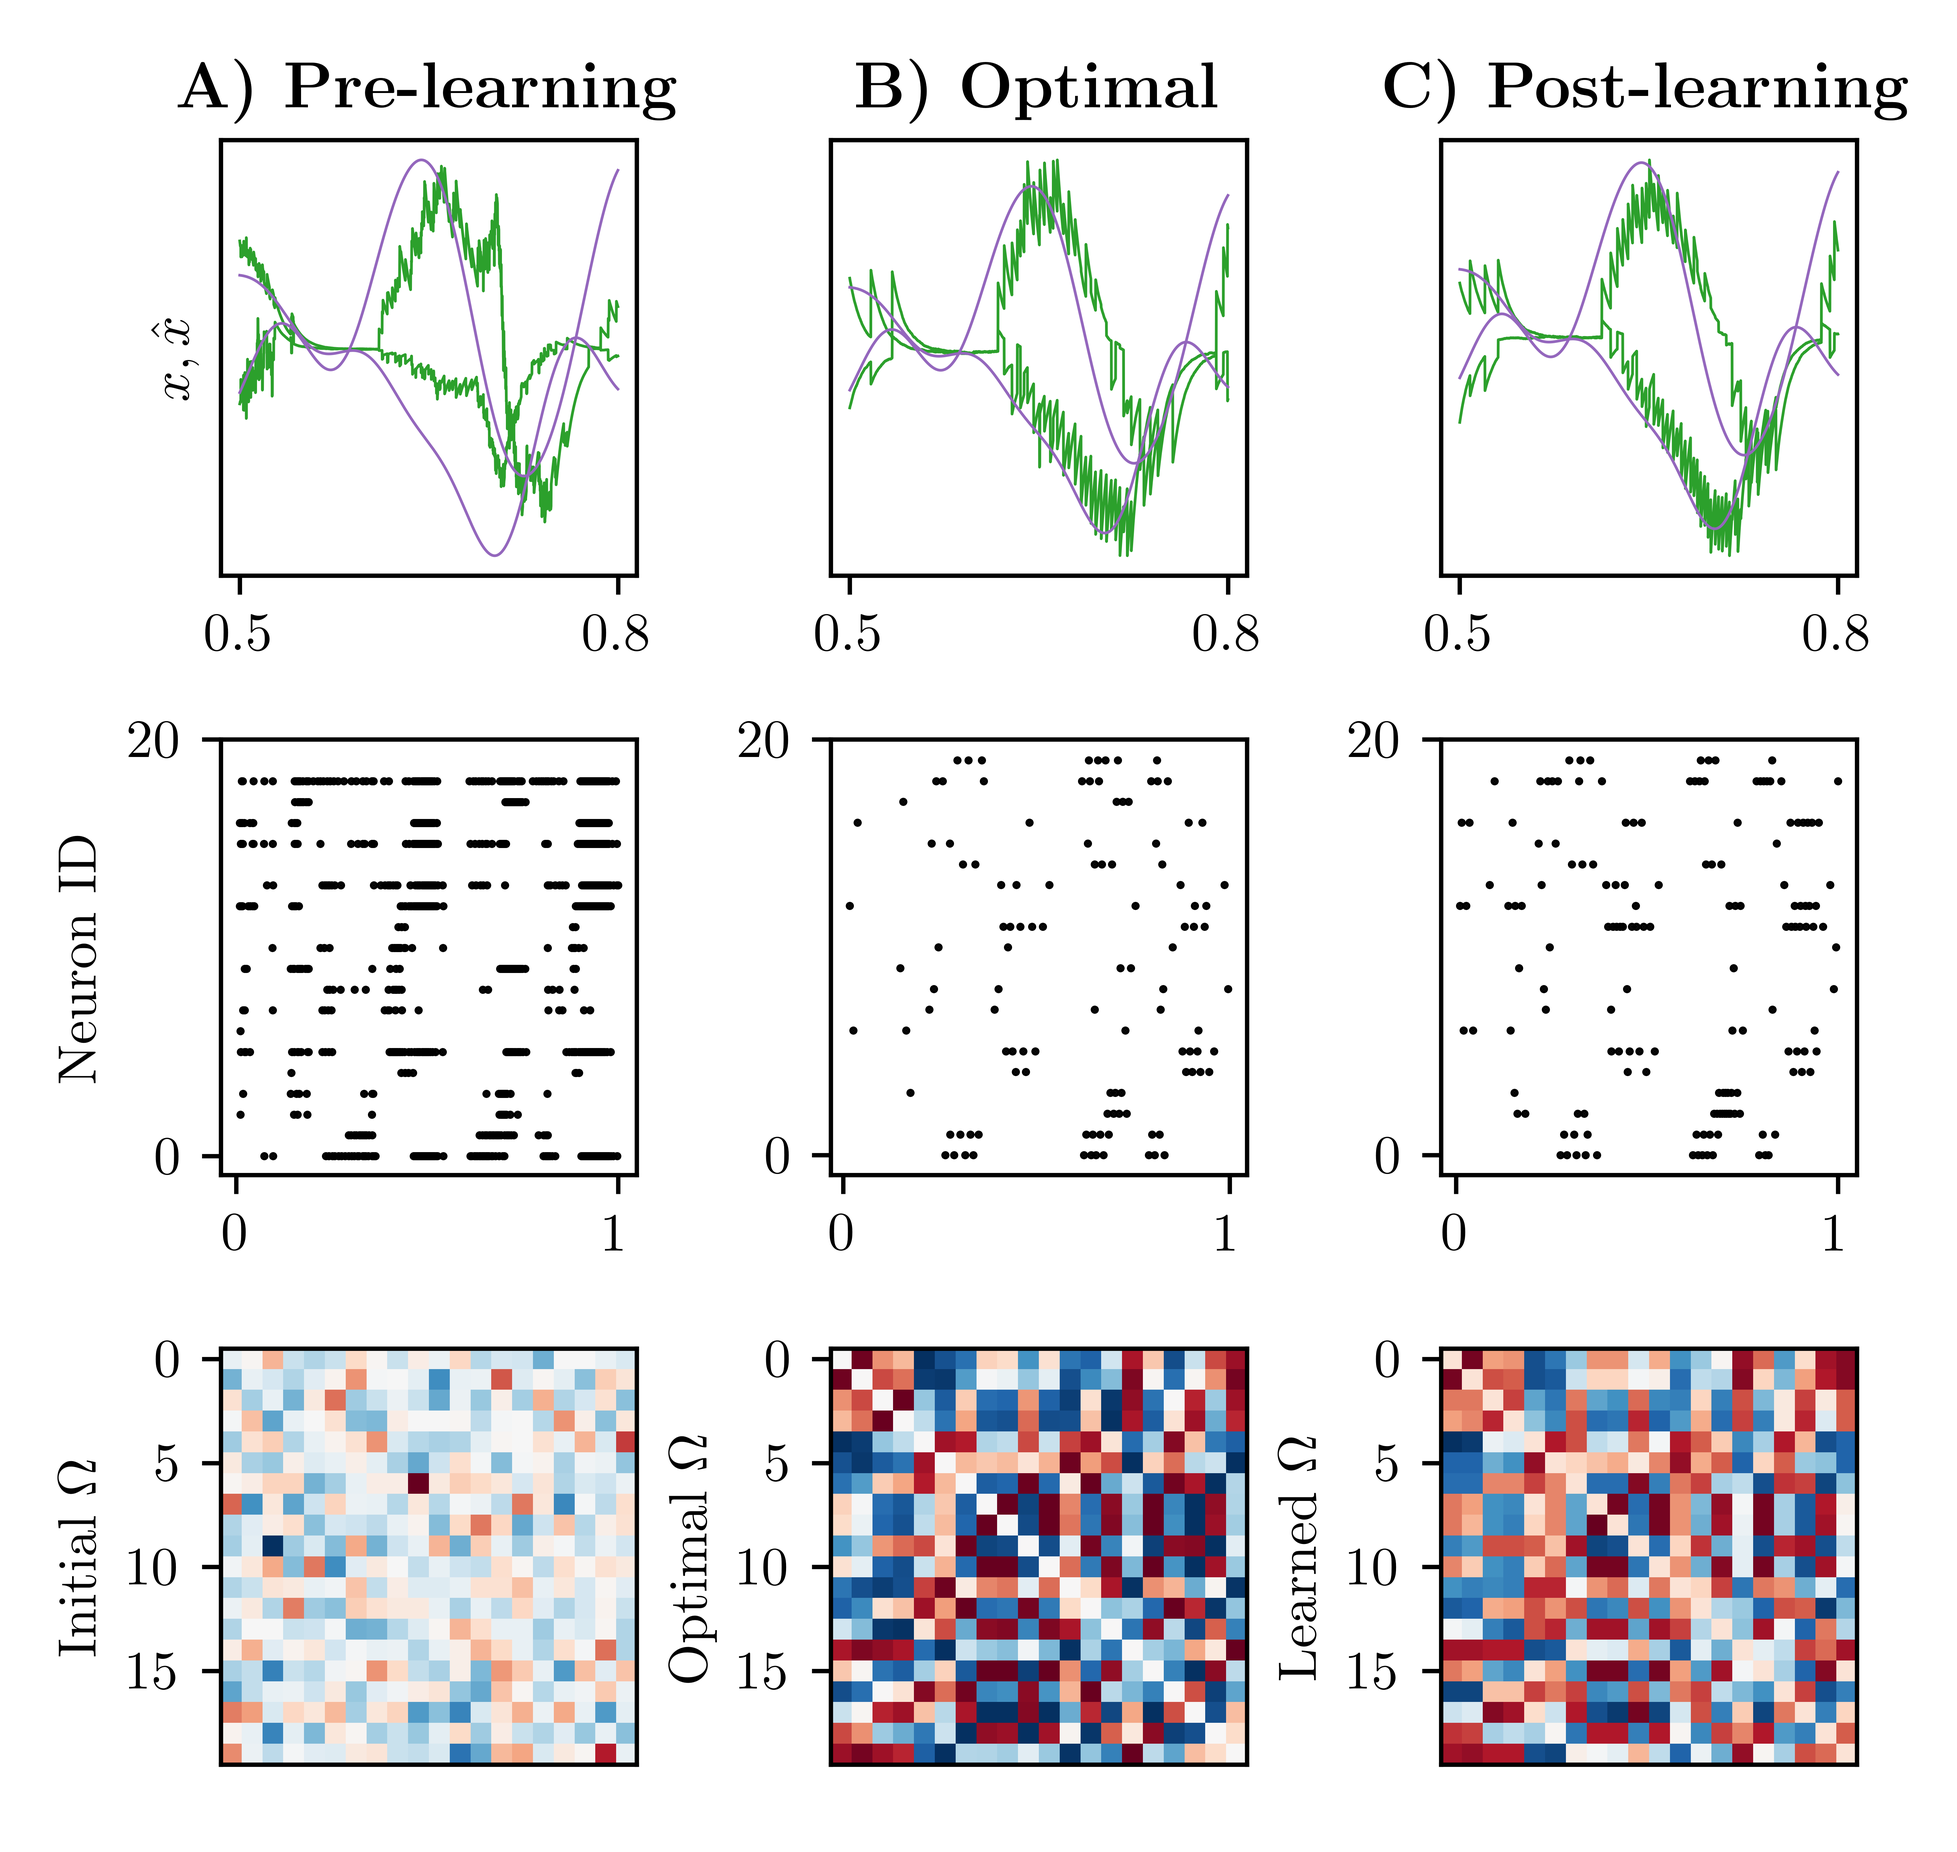
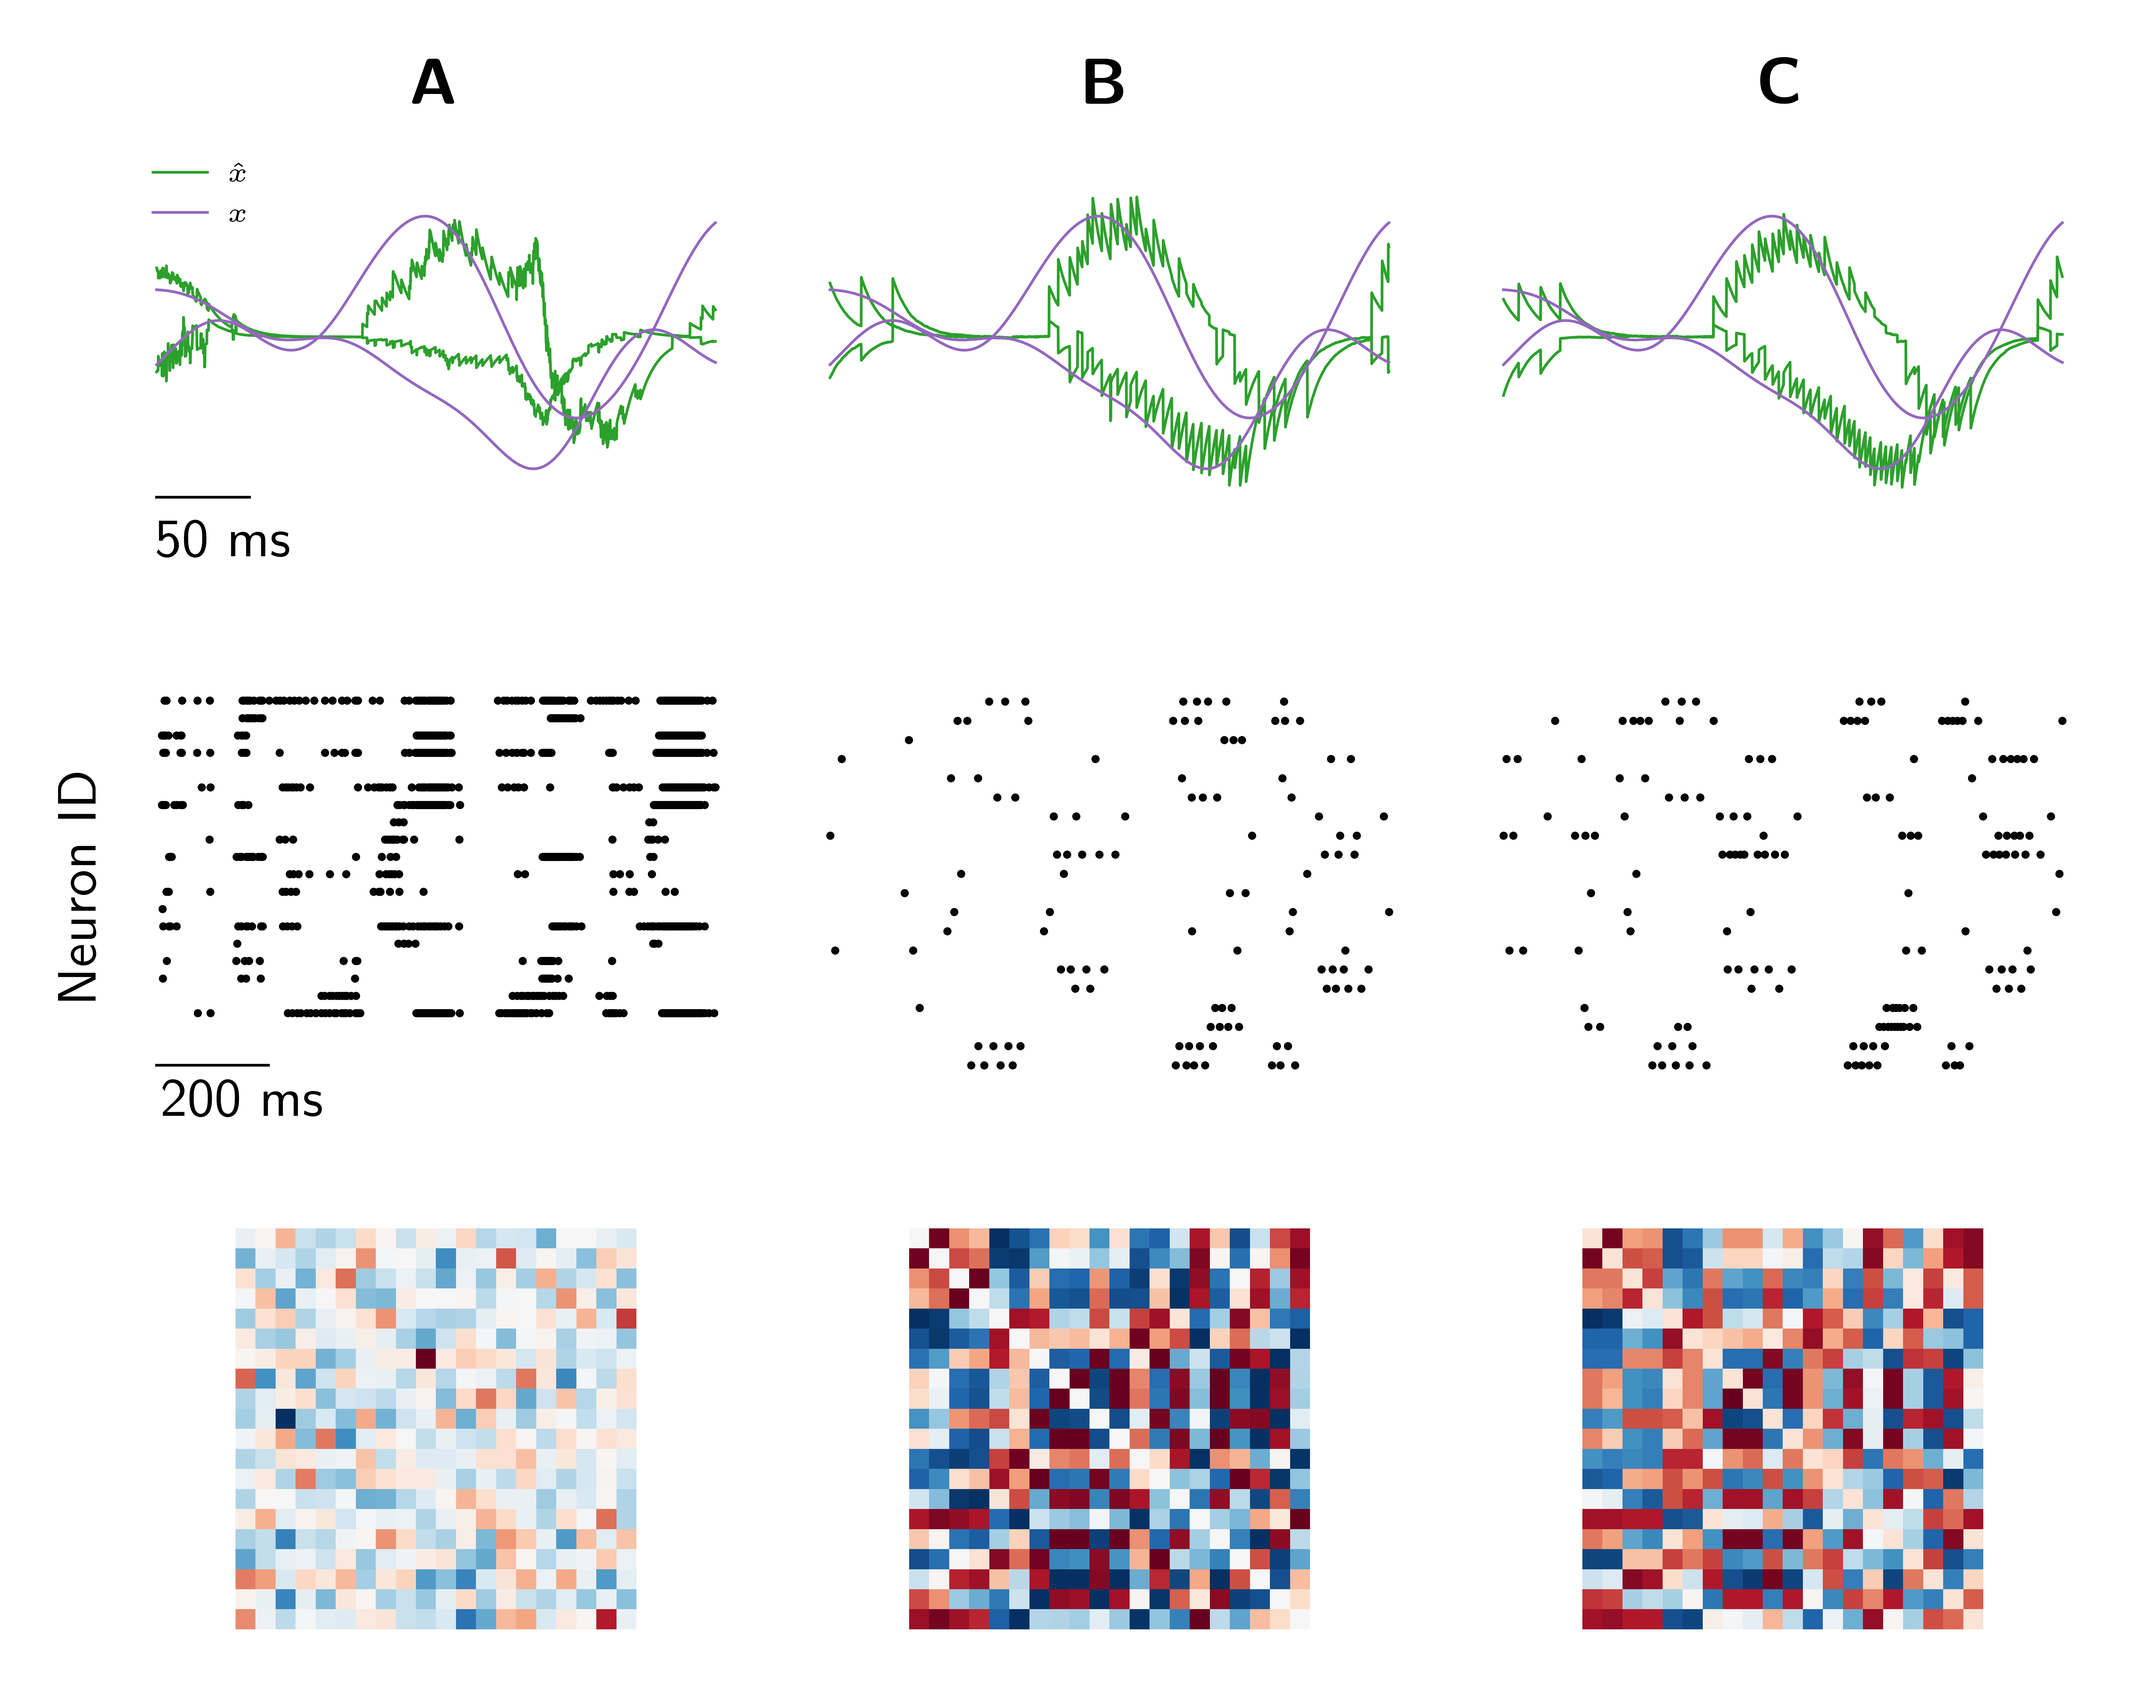
Improve plots

diff --git a/plotting.py b/plotting.py
@@ -1,7 +1,7 @@
 import numpy as np
 
 import matplotlib
-matplotlib.rc('font', family='Times New Roman')
+matplotlib.rc('font', family='Sans-Serif')
 matplotlib.rc('text', usetex=True)
 matplotlib.rcParams['lines.linewidth'] = 0.5
 matplotlib.rcParams['lines.markersize'] = 0.5
@@ -30,7 +30,7 @@ W_initial = np.asarray(load_dict["W_initial"])
 W_optimal = np.asarray(load_dict["W_optimal"])
 W_learned = np.asarray(load_dict["W_learned"])
 
-fig = plt.figure(figsize=(5,4.73))
+fig = plt.figure(figsize=(5.49,4.36))
 
 t_start = 0.5
 t_stop = 0.8
@@ -41,26 +41,39 @@ recon_optimal_sub = recon_optimal[:,(t > t_start) & (t < t_stop)]
 recon_learned_sub = recon_learned[:,(t > t_start) & (t < t_stop)]
 
 ax0 = fig.add_subplot(331)
-ax0.set_title(r"\textbf{A) Pre-learning}")
-ax0.plot(t_sub, recon_initial_sub.T, color="C2")
-ax0.plot(t_sub, target_sub, color="C4")
+top_lim = [-0.1,0.1]
+ax0.set_title(r"\textbf{A}")
+l1 = ax0.plot(t_sub, recon_initial_sub.T, color="C2")
+l2 = ax0.plot(t_sub, target_sub, color="C4")
 ax0.set_xticks([t_start,t_stop])
-ax0.set_ylabel(r"$x,\hat{x}$")
-ax0.set_yticks([],[])
+ax0.plot([0.5,0.55], [-0.08,-0.08], color="k", linewidth=0.5)
+ax0.text(x=0.5, y=-0.11, s="50 ms")
+ax0.set_ylim(top_lim)
+lines = [l1[0],l2[0]]
+ax0.legend(lines,[r"$\hat{x}$", r"$x$"], frameon=False, loc=2, prop={'size': 5})
 
 ax1 = fig.add_subplot(332)
-ax1.set_title(r"\textbf{B) Optimal}")
+ax1.set_title(r"\textbf{B}")
 ax1.plot(t_sub,recon_optimal_sub.T, color="C2")
 ax1.plot(t_sub,target_sub, color="C4")
 ax1.set_xticks([t_start,t_stop])
-ax1.set_yticks([],[])
+ax1.set_ylim(top_lim)
 
 ax2 = fig.add_subplot(333)
-ax2.set_title(r"\textbf{C) Post-learning}")
+ax2.set_title(r"\textbf{C}")
 ax2.plot(t_sub,recon_learned_sub.T, color="C2")
 ax2.plot(t_sub,target_sub, color="C4")
 ax2.set_xticks([t_start,t_stop])
-ax2.set_yticks([],[])
+ax2.set_ylim(top_lim)
+
+axes_top = [ax0,ax1,ax2]
+for ax_tmp in axes_top:
+    ax_tmp.spines["top"].set_visible(False)
+    ax_tmp.spines["right"].set_visible(False)
+    ax_tmp.spines["left"].set_visible(False)
+    ax_tmp.spines["bottom"].set_visible(False)
+    ax_tmp.set_xticks([])
+    ax_tmp.set_yticks([])
 
 ax3 = fig.add_subplot(334)
 nNetSize = W_initial.shape[0]
@@ -73,6 +86,10 @@ ax3.scatter(times_initial, channels_id_initial, color="k")
 ax3.set_yticks([0,nNetSize])
 ax3.set_xticks([0,tDuration])
 ax3.set_ylabel(r"Neuron ID")
+
+ax3.plot([0.0,0.2], [-3,-3], color="k", linewidth=0.5)
+ax3.text(x=0.01, y=-6, s="200 ms")
+
 
 ax4 = fig.add_subplot(335)
 channels = optimal_channels
@@ -92,25 +109,30 @@ ax5.scatter(times_learned, channels_id_learned, color="k")
 ax5.set_yticks([0,nNetSize])
 ax5.set_xticks([0,tDuration])
 
+axes_mid = [ax3,ax4,ax5]
+
+for ax_tmp in axes_mid:
+    ax_tmp.spines["top"].set_visible(False)
+    ax_tmp.spines["right"].set_visible(False)
+    ax_tmp.spines["left"].set_visible(False)
+    ax_tmp.spines["bottom"].set_visible(False)
+    ax_tmp.set_xticks([])
+    ax_tmp.set_yticks([])
+
+
 ax6 = fig.add_subplot(337)
-ax6.set_ylabel(r"Initial $\Omega$")
 im = plt.matshow(W_initial, fignum=False, cmap='RdBu')
-ax6.set_xticks([], [])
+plt.axis('off')
 
 ax7 = fig.add_subplot(338)
-ax7.set_ylabel(r"Optimal $\Omega$")
 im = plt.matshow(W_optimal, fignum=False, cmap='RdBu')
-ax7.set_xticks([], [])
+plt.axis('off')
 
 ax8 = fig.add_subplot(339)
-ax8.set_ylabel(r"Learned $\Omega$")
 im = plt.matshow(W_learned, fignum=False, cmap='RdBu')
-ax8.set_xticks([], [])
 plt.tight_layout()
+plt.axis('off')
 
+# - Save and plot
 plt.savefig("figure1.png", dpi=1200)
-
 plt.show()
-
-
-plot_matrices(W_initial, W_optimal, W_learned, title_A=r"Initial $\Omega$", title_B=r"Optimal $\Omega$",title_C=r"Learned $\Omega$")

diff --git a/plotting1.py b/plotting1.py
@@ -1,6 +1,6 @@
 import numpy as np 
 import matplotlib
-matplotlib.rc('font', family='Times New Roman')
+matplotlib.rc('font', family='Sans-Serif')
 matplotlib.rc('text', usetex=True)
 matplotlib.rcParams['lines.linewidth'] = 0.5
 matplotlib.rcParams['lines.markersize'] = 0.5
@@ -152,7 +152,7 @@ I_SL = 0.3 # nA
 lower_bound = I_rest - I_Omega_n_k / 2 - I_SL
 upper_bound = I_rest - I_Omega_n_k / 2 + I_SL
 
-fig = plt.figure(figsize=(5.0,4.0),constrained_layout=True)
+fig = plt.figure(figsize=(1.6*3.49,1.6*1.97),constrained_layout=True)
 gs = fig.add_gridspec(2, 1)
 ax1 = fig.add_subplot(gs[0,0])
 ax2 = fig.add_subplot(gs[1,0])
@@ -160,7 +160,6 @@ ax2 = fig.add_subplot(gs[1,0])
 ax1_twin = ax1.twinx()
 ax1_twin.plot(t_bit_values, bit_values, color='r')
 ax1_twin.set_ylabel(r"Bit value", color='r')
-ax1.set_title(r"Simulation I")
 ax1.step(t_Omega_n_k,lower_bound, where = 'post', color="C2", linestyle='--', label=r"$I_{\textnormal{lower}}$")
 ax1.step(t_Omega_n_k,upper_bound, where = 'post', color="C4", linestyle='--', label=r"$I_{\textnormal{upper}}$")
 ax1.plot(t_I_mem, I_mem, label=r"$I_{\textnormal{mem}}$")
@@ -181,13 +180,28 @@ if(len(DEC_onset) > len(DEC_offset)):
 ax1.set_ylabel(r"$I_{\textnormal{mem}}$ \textbf{[nA]}")
 ax1.legend(loc=1, prop={'size': 5})
 ax1.set_ylim([0,15])
+ax1.yaxis.set_ticks_position('none')
+ax1_twin.yaxis.set_ticks_position('none') 
+ax1.set_yticks([5,10])
+ax1_twin.set_yticks([-5, 5, 15])
+
+axes = [ax1,ax1_twin]
+for ax_tmp in axes:
+    ax_tmp.spines["top"].set_visible(False)
+    ax_tmp.spines["right"].set_visible(False)
+    ax_tmp.spines["left"].set_visible(False)
+    ax_tmp.spines["bottom"].set_visible(False)
+ax1.set_xticks([])
+
+ax1_twin.plot([0.015,0.065], [-4.5,-4.5], color="k", linewidth=0.5)
+ax1_twin.text(x=0.015, y=-6.5, s="50 ms")
 
 t_start = 0.18
 t_stop = 0.25
 ax2.plot(t_I_mem, I_mem)
 ax2_twin = ax2.twinx()
 ax2_twin.plot(t_bit_values, bit_values, color='r')
-ax2_twin.set_ylabel(r"Bit value", color='r')
+# ax2_twin.set_ylabel(r"Bit value", color='r')
 for (on,off) in zip(SL_onset,SL_offset):
     ax2.axvspan(on, off, facecolor='y', alpha=0.1)
 for (on,off) in zip(INC_onset,INC_offset):
@@ -199,8 +213,21 @@ ax2.step(t_Omega_n_k,upper_bound, where = 'post', color="C4", linestyle='--')
 ax2.set_xlim([t_start,t_stop])
 ax2.set_ylim([7,10])
 ax2.axhline(y=I_rest, color="C5", linestyle='--')
-ax2.set_ylabel(r"$I_{\textnormal{mem}}$ \textbf{[nA]}")
-ax2.set_xlabel(r"t \textbf{[s]}")
+
+axes = [ax2,ax2_twin]
+for ax_tmp in axes:
+    ax_tmp.spines["top"].set_visible(False)
+    ax_tmp.spines["right"].set_visible(False)
+    ax_tmp.spines["left"].set_visible(False)
+    ax_tmp.spines["bottom"].set_visible(False)
+
+ax2_twin.set_yticks([])
+ax2_twin.yaxis.set_ticks_position('none') 
+ax2_twin.set_xticks([])
+
+ax2_twin.plot([0.182,0.187], [-4.5,-4.5], color="k", linewidth=0.5)
+ax2_twin.text(x=0.182, y=-6.5, s="5 ms")
+ax2.set_yticks([])
 
 # - Draw rectangle in first plot
 # Create a Rectangle patch

diff --git a/plotting2.py b/plotting2.py
@@ -1,6 +1,6 @@
 import numpy as np 
 import matplotlib
-matplotlib.rc('font', family='Times New Roman')
+matplotlib.rc('font', family='Sans-Serif')
 matplotlib.rc('text', usetex=True)
 matplotlib.rcParams['lines.linewidth'] = 0.5
 matplotlib.rcParams['lines.markersize'] = 0.5
@@ -152,15 +152,14 @@ I_SL = 0.3 # nA
 lower_bound = I_rest - I_Omega_n_k / 2 - I_SL
 upper_bound = I_rest - I_Omega_n_k / 2 + I_SL
 
-fig = plt.figure(figsize=(5.0,4.0),constrained_layout=True)
+fig = plt.figure(figsize=(1.6*3.49,1.6*1.97),constrained_layout=True)
 gs = fig.add_gridspec(2, 1)
 ax1 = fig.add_subplot(gs[0,0])
 ax2 = fig.add_subplot(gs[1,0])
 
 ax1_twin = ax1.twinx()
 ax1_twin.plot(t_bit_values, bit_values, color='r')
-ax1_twin.set_ylabel(r"Bit value", color='r')
-ax1.set_title(r"Simulation II")
+ax1_twin.set_ylabel("Bit value", color='r')
 ax1.step(t_Omega_n_k,lower_bound, where = 'post', color="C2", linestyle='--', label=r"$I_{\textnormal{lower}}$")
 ax1.step(t_Omega_n_k,upper_bound, where = 'post', color="C4", linestyle='--', label=r"$I_{\textnormal{upper}}$")
 ax1.plot(t_I_mem, I_mem, label=r"$I_{\textnormal{mem}}$")
@@ -180,6 +179,21 @@ if(len(DEC_onset) > len(DEC_offset)):
     ax1.axvspan(DEC_onset[-1],max(t_I_mem), facecolor='r', alpha=0.1)
 ax1.set_ylabel(r"$I_{\textnormal{mem}}$ \textbf{[nA]}")
 ax1.legend(loc=1, prop={'size': 5})
+ax1.yaxis.set_ticks_position('none')
+ax1_twin.yaxis.set_ticks_position('none') 
+ax1.set_yticks([3,8,13])
+ax1_twin.set_yticks([5, -10, -25])
+
+axes = [ax1,ax1_twin]
+for ax_tmp in axes:
+    ax_tmp.spines["top"].set_visible(False)
+    ax_tmp.spines["right"].set_visible(False)
+    ax_tmp.spines["left"].set_visible(False)
+    ax_tmp.spines["bottom"].set_visible(False)
+ax1.set_xticks([])
+
+ax1_twin.plot([0.01,0.06], [-27,-27], color="k", linewidth=0.5)
+ax1_twin.text(x=0.01, y=-31, s="50 ms")
 
 
 t_start = 0.2
@@ -187,7 +201,6 @@ t_stop = 0.3
 ax2.plot(t_I_mem, I_mem)
 ax2_twin = ax2.twinx()
 ax2_twin.plot(t_bit_values, bit_values, color='r')
-ax2_twin.set_ylabel(r"Bit value", color='r')
 ax2_twin.set_ylim([-35,0])
 for (on,off) in zip(SL_onset,SL_offset):
     ax2.axvspan(on, off, facecolor='y', alpha=0.1)
@@ -200,8 +213,21 @@ ax2.step(t_Omega_n_k,upper_bound, where = 'post', color="C4", linestyle='--')
 ax2.set_xlim([t_start,t_stop])
 ax2.set_ylim([7,10])
 ax2.axhline(y=I_rest, color="C5", linestyle='--')
-ax2.set_ylabel(r"$I_{\textnormal{mem}}$ \textbf{[nA]}")
-ax2.set_xlabel(r"t \textbf{[s]}")
+
+axes = [ax2,ax2_twin]
+for ax_tmp in axes:
+    ax_tmp.spines["top"].set_visible(False)
+    ax_tmp.spines["right"].set_visible(False)
+    ax_tmp.spines["left"].set_visible(False)
+    ax_tmp.spines["bottom"].set_visible(False)
+
+ax2_twin.set_yticks([])
+ax2_twin.yaxis.set_ticks_position('none') 
+ax2_twin.set_xticks([])
+
+ax2_twin.plot([0.202,0.212], [-31,-31], color="k", linewidth=0.5)
+ax2_twin.text(x=0.202, y=-34, s="10 ms")
+ax2.set_yticks([])
 
 # - Draw rectangle in first plot
 # Create a Rectangle patch

diff --git a/README.md b/README.md
@@ -5,6 +5,7 @@ a random recurrent weight into a balanced regime.
 
 ## Requirements
 Please install [rockpool](https://github.com/jubueche/Rockpool) using `$ pip install -e . --user` (more detailed instructions are in the repository).
+Use `$ git fetch -a` to get all the branches and use `$ git checkout --track origin/paper/figure1` to checkout the correct branch.
 This is a framework developed by [SynSense](synsense.ai) for training spiking neural networks with multiple backends.
 
 Further requirements include `matplotlib,numpy` and `scipy`.
@@ -17,6 +18,8 @@ The figure can then be generated using `$ python plotting.py`.
 <center>
 <img src=figure1.png width="500">
 </center>
+
+If you are interested in the implementation of the learning rule, checkout `path/to/rockpool/rockpool/networks/gpl/net_deneve.py`.
 
 ## Simulations of the IC (Integrated Circuit)
 The point of having a discrete learning rule for EBNs is that they make a hardware implementation much easier. We developed an IC and simulated it in two basic experiments that are also described in the paper. The data obtained from these simulation is located in the folder `Simulations/`. To generate the rest of the plots in the paper, execute `$ python plotting1.py` or `$ python plotting2.py`.
